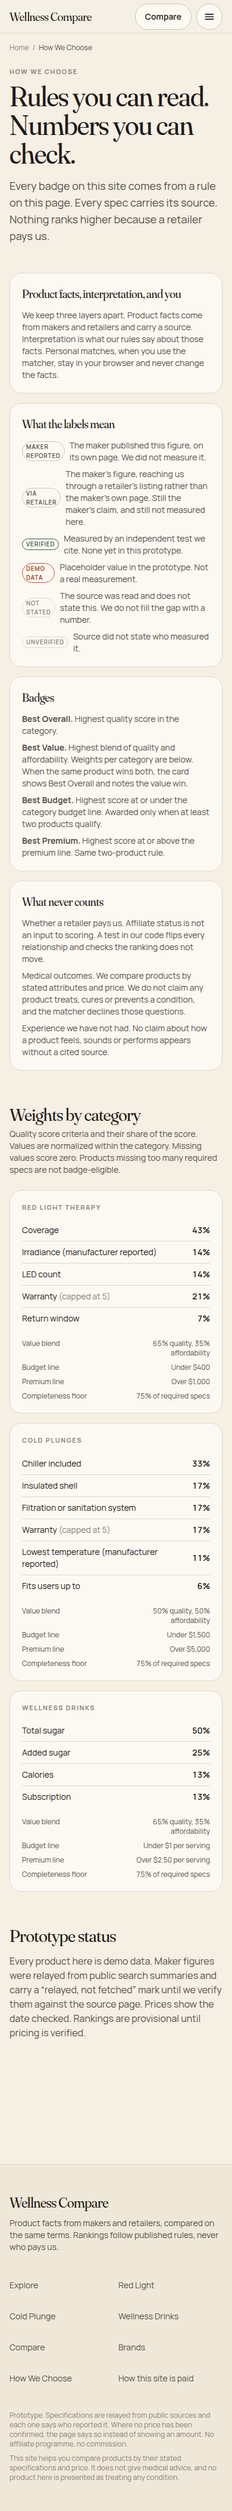
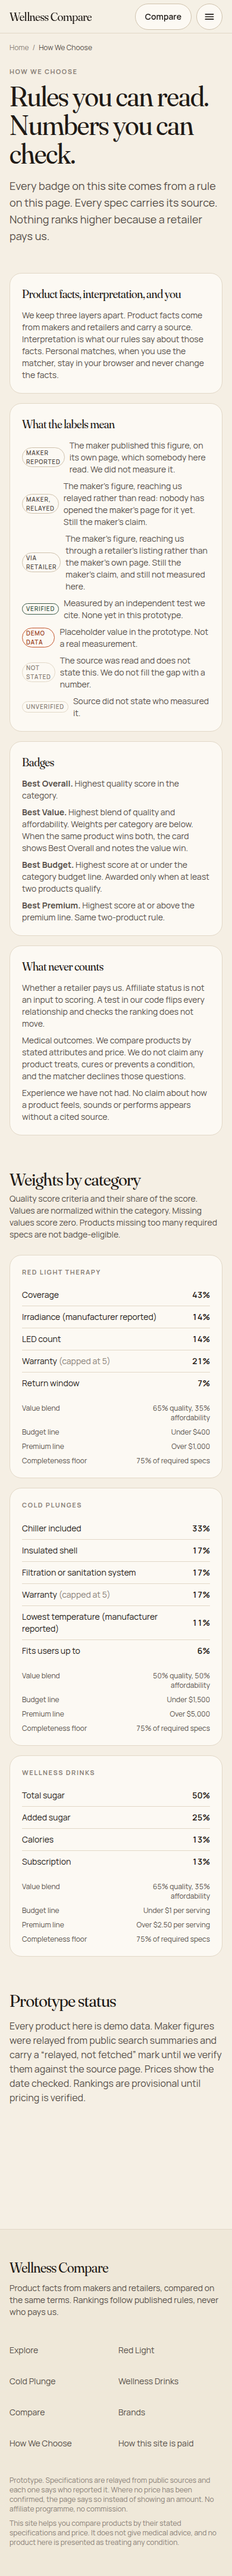
A claim relayed from a summary now says so, like the one relayed by a shop
Thirty-eight records hold the maker's claim from a 2026-09-08 search summary
with nobody having opened the maker's page. They read "reported by the maker",
identically to the 111 that somebody actually read.

The same helper now tells three shapes apart. Read from the maker's own page is
"Maker reported" and keeps its short wording, because it is the common case.
Relayed from a summary is "Maker, relayed" and "reported by the maker, relayed
to us rather than read". Relayed by a shop is "Via retailer", as it already was.
All three stay `manufacturer_reported`, because that word says whose claim it
is, which has not changed and is not what was misleading.

No verification value moved, no usability rule changed, no ranking moved. The
helper is read by the tag and by the assistant's fact list and by nothing that
decides anything.

One reply on the cold plunge page now carries all three, which is the clearest
evidence it works:

    Ice Barrel 500 · Chiller included = No | reported by the maker
    The Cold Pod   · Chiller included = No | the maker's figure, relayed by a retailer listing
    Ice Barrel 400 · Chiller included = No | reported by the maker, relayed to us rather than read

On product pages, Edge Tub Elite shows four "Maker, relayed" tags and Renu Cold
Stoic four "Maker reported". The How We Choose legend explains all three.

I changed the direct case's wording too, to "read from its own page", and put it
[…]

Changed region(s): [[0.0308, 0.0, 0.9538, 0.81], [0.0308, 0.8723, 0.9231, 0.9969], [0.6154, 0.6542, 0.6462, 0.6854]]

diff --git a/src/domain/provenance.ts b/src/domain/provenance.ts
@@ -93,19 +93,39 @@ export type Provenance = z.infer<typeof Provenance>;
  */
 export type Attributed = { verification: Verification; source: Pick<Source, "kind" | "method"> };
 
+/**
+ * Three shapes a maker's claim can arrive in, and they are not the same news.
+ *
+ * A figure read from the maker's own page is the strongest thing this site has.
+ * The same figure relayed by a search summary is the maker's claim with nobody
+ * having opened the page. Relayed by a shop's listing, it is the maker's claim
+ * at a further remove still. All three are `manufacturer_reported`, because
+ * that word says whose claim it is, and all three read identically until the
+ * source is consulted alongside it.
+ */
+function makerClaim(source: Attributed["source"]): "direct" | "relayed" | "retailer" {
+  if (source.kind === "retailer") return "retailer";
+  return source.method === "secondhand" ? "relayed" : "direct";
+}
+
 /** Short enough for a pill beside a value. */
 export function attributionTag(p: Attributed): string {
-  if (p.verification === "manufacturer_reported" && p.source.kind === "retailer") return "Via retailer";
-  return TAGS[p.verification];
+  if (p.verification !== "manufacturer_reported") return TAGS[p.verification];
+  const shape = makerClaim(p.source);
+  if (shape === "retailer") return "Via retailer";
+  return shape === "relayed" ? "Maker, relayed" : "Maker reported";
 }
 
 /** A clause for prose, as the assistant renders beside a fact. */
 export function attributionSentence(p: Attributed): string {
   if (p.verification === "independently_verified") return "verified by this site";
-  if (p.verification === "manufacturer_reported") {
-    return p.source.kind === "retailer" ? "the maker's figure, relayed by a retailer listing" : "reported by the maker";
-  }
-  return "source not recorded";
+  if (p.verification !== "manufacturer_reported") return "source not recorded";
+  const shape = makerClaim(p.source);
+  if (shape === "retailer") return "the maker's figure, relayed by a retailer listing";
+  // The direct case keeps its short wording. It is the common one, 111 records,
+  // and the contrast with "relayed to us rather than read" carries the meaning
+  // without lengthening every other fact on the site.
+  return shape === "relayed" ? "reported by the maker, relayed to us rather than read" : "reported by the maker";
 }
 
 const TAGS: Record<Verification, string> = {

diff --git a/src/__tests__/attribution.test.ts b/src/__tests__/attribution.test.ts
@@ -26,6 +26,28 @@ describe("a maker's figure relayed by a retailer says so", () => {
     expect(attributionSentence(p)).toBe("reported by the maker");
   });
 
+  // The third shape, and the largest: 38 records hold the maker's claim from a
+  // search summary with nobody having opened the maker's page. They read
+  // identically to the 111 that were read, which is the thing being fixed.
+  it("says a claim relayed from a summary was not read here", () => {
+    const p = { verification: "manufacturer_reported" as const, source: { kind: "manufacturer" as const, method: "secondhand" as const } };
+    expect(attributionTag(p)).toBe("Maker, relayed");
+    expect(attributionSentence(p)).toBe("reported by the maker, relayed to us rather than read");
+  });
+
+  it("tells the three shapes apart on real records, and changes none of their values", () => {
+    const shapes = new Map<string, string>();
+    for (const v of viewsFor("cold-plunge")) {
+      for (const [key, prov] of Object.entries(v.provenance)) {
+        if (prov.verification !== "manufacturer_reported") continue;
+        shapes.set(attributionTag(prov), `${v.id}.${key}`);
+      }
+    }
+    // All three occur in this one category, so the wording is exercised by the
+    // catalogue rather than only by the two literals above.
+    expect([...shapes.keys()].sort()).toEqual(["Maker reported", "Maker, relayed", "Via retailer"]);
+  });
+
   it("applies to the real records that carry it", () => {
     for (const key of RELAYED) {
       const prov = pod().provenance[`attributes.${key}`];

diff --git a/src/app/how-we-choose/page.tsx b/src/app/how-we-choose/page.tsx
@@ -31,7 +31,11 @@ export default function HowWeChoosePage() {
           </Card>
           <Card title="What the labels mean">
             <ul className="flex flex-col gap-2">
-              <li className="flex items-center gap-2"><VerificationTag verification="manufacturer_reported" /> The maker published this figure, on its own page. We did not measure it.</li>
+              <li className="flex items-center gap-2"><VerificationTag verification="manufacturer_reported" /> The maker published this figure, on its own page, which somebody here read. We did not measure it.</li>
+              <li className="flex items-center gap-2">
+                <VerificationTag verification="manufacturer_reported" source={{ kind: "manufacturer", method: "secondhand" }} /> The maker&apos;s figure, reaching us relayed rather
+                than read: nobody has opened the maker&apos;s page for it yet. Still the maker&apos;s claim.
+              </li>
               <li className="flex items-center gap-2">
                 <VerificationTag verification="manufacturer_reported" source={{ kind: "retailer", method: "secondhand" }} /> The maker&apos;s figure, reaching us through a
                 retailer&apos;s listing rather than the maker&apos;s own page. Still the maker&apos;s claim, and still not measured here.

diff --git a/docs/preview/index.html b/docs/preview/index.html
@@ -39,7 +39,7 @@
 <header>
   <h1>Wellness Compare</h1>
   <p>Screenshots of the built site. Every image is a real page from a production build served locally, not a mockup.</p>
-  <p class="meta">Build <code id="build">Ps8FaSDKtw2XQLJO3v50v</code>, captured <span id="captured">2026-09-11</span>. Run it yourself with <code>npm run preview</code>.</p>
+  <p class="meta">Build <code id="build">tBS0sXt5vGI9q2Y5z48lK</code>, captured <span id="captured">2026-09-11</span>. Run it yourself with <code>npm run preview</code>.</p>
 </header>
 
 <div class="tabs" role="group" aria-label="Viewport">
